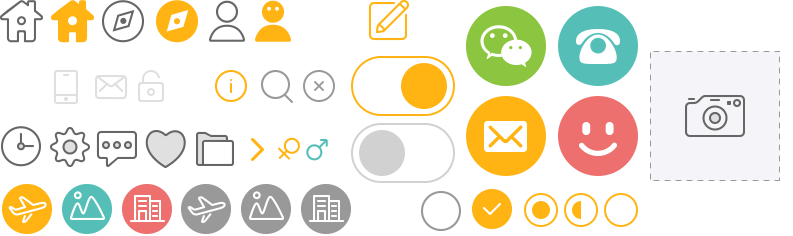
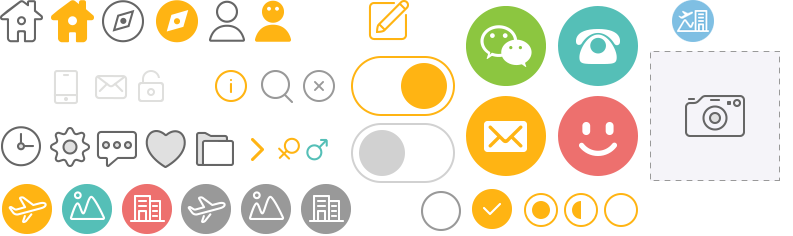
用户中心机+酒图标

Changed region(s): [[0.8474, 0.0, 0.9079, 0.178]]

diff --git a/assets/user/user-allorder.html b/assets/user/user-allorder.html
@@ -297,7 +297,7 @@
 	{% }else if (productType=="Package_FH") { %}
 	<div class="order-div scenic-div">
 		<div style="border-bottom: 1px solid #dedede;">
-			<b class="icon user-spot"></b>
+			<b class="icon user-fligthotle"></b>
 			<div class="order-title">机+酒</div>
 			<div class="if_pay">{%=getCN[paymentStatus]%}</div>
 			<div class="order-Amount">￥{%=bookingAmount%}</div>

diff --git a/assets/css/user.css b/assets/css/user.css
@@ -649,6 +649,16 @@ a{
     height: 25px;
     background-position: 8.5% 99%;
 }
+.user-fligthotle{
+    float: left;
+    margin: 8px;
+    width: 25px;
+    height: 25px;
+    background-image: url(../images/ui/icon.png);
+    background-repeat: no-repeat;
+    background-size: 412px 125px;
+    background-position: 89.5% -2%;
+}
 
 .user-hotel1 {
     float: left;
